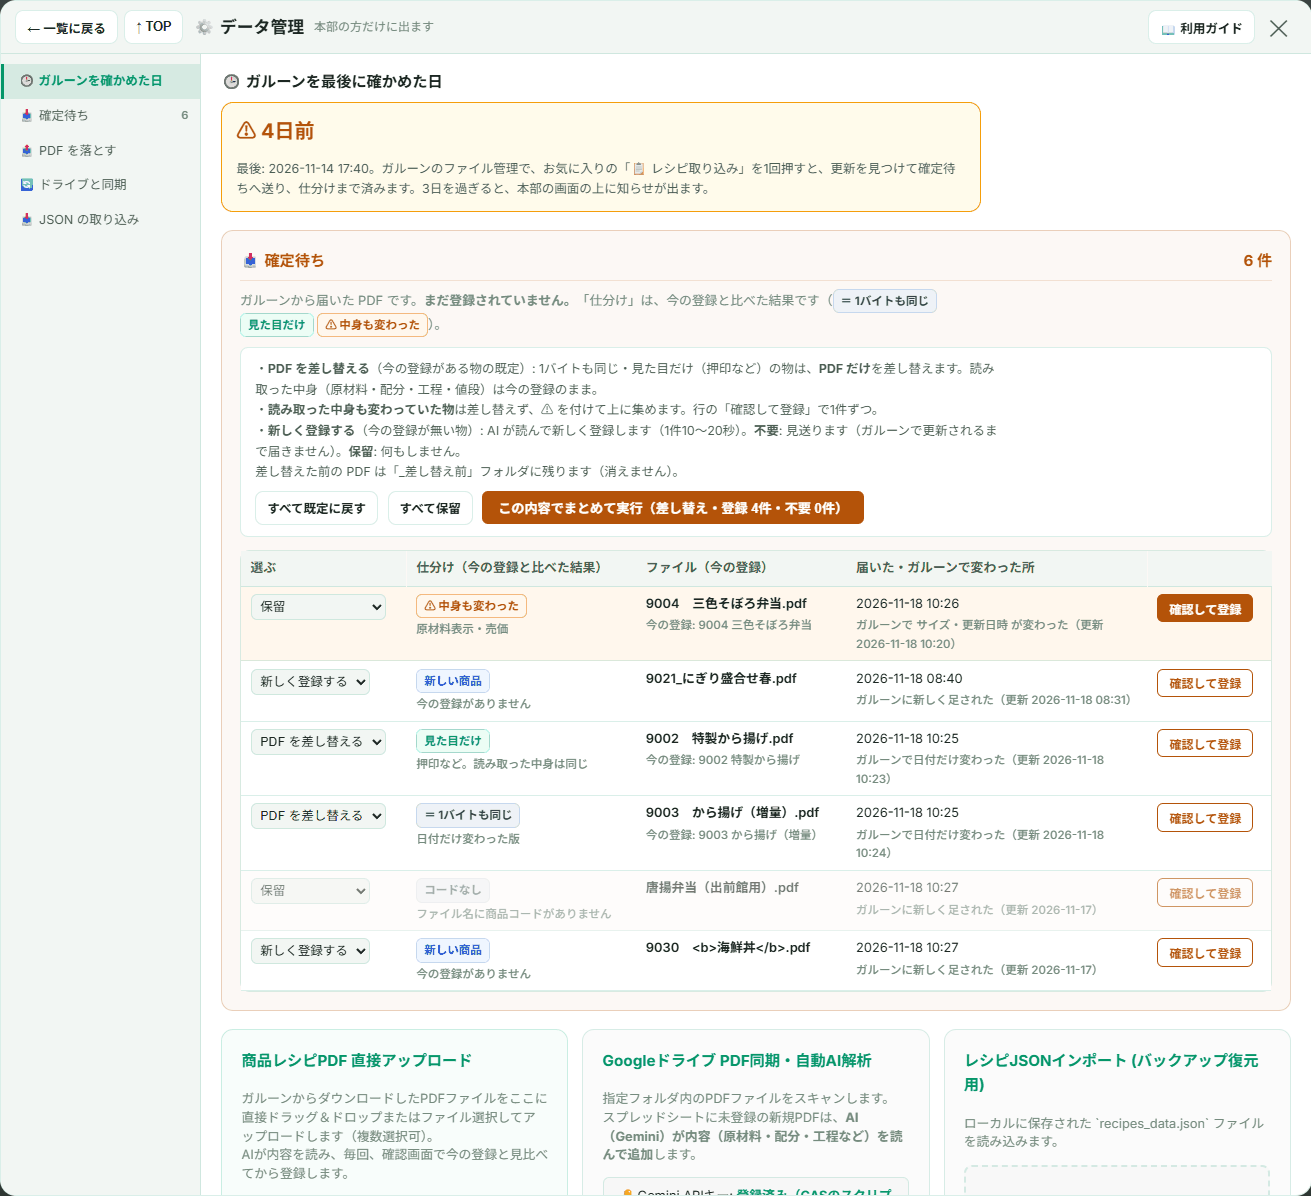
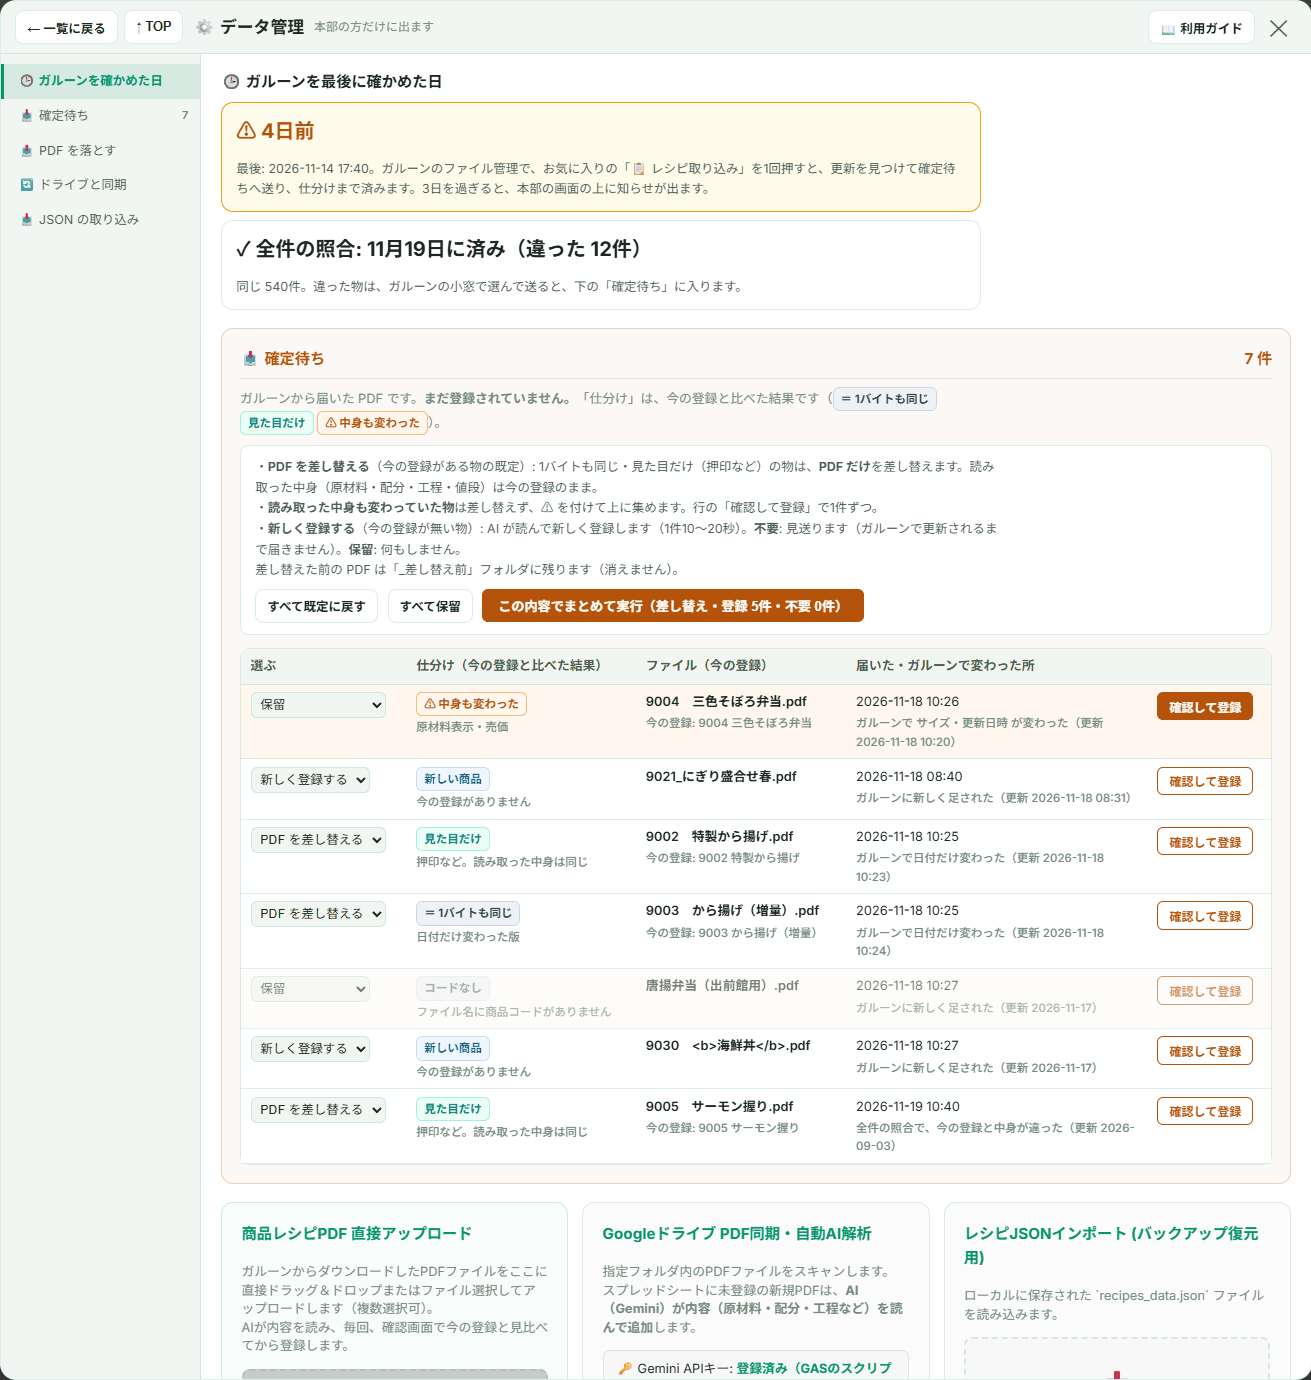
feat: ガルーンの全件の照合（1回だけ・指紋で比べて違う物だけ確定待ちへ）・データ管理に照合の状態（build recipe-web-2026-11-19a・窓口 recipe-api-2026-11-19a が要る）
押す前の公開中: recipe-web-2026-11-18a（記録 48048be）。切り戻しは rollback の台本で、この版へ。

Copy-Desk: r1119a

diff --git a/index.html b/index.html
@@ -1177,6 +1177,8 @@
   .gchk.is-stale{border-color:#f59e0b;background:#fffbeb;}
   .gchk .gchk-day{font-size:1.25rem;font-weight:800;color:var(--text-primary);}
   .gchk.is-stale .gchk-day{color:#b45309;}
+  .gchk.gchk-full{margin-top:8px;}
+  .gchk[hidden]{display:none;}
   .gchk .gchk-t{font-size:12.5px;color:var(--text-secondary);line-height:1.6;}
   .gchk a,.gnote-bar a{color:#1669c9;font-weight:700;text-decoration:underline;}
   #garoon-notice{display:flex;align-items:center;gap:10px;flex-wrap:wrap;margin:0 0 .5rem;padding:.45rem .9rem;border:1px solid #f59e0b;background:#fffbeb;color:#92400e;border-radius:10px;font-size:.8rem;font-weight:600;}
@@ -1295,7 +1297,7 @@
         <!-- 名前の下に小さく版の字（2行まで折り返す）＝戻る・TOP を足しても、上の帯を1行のまま（右が空いたまま2行にしない） -->
         <div id="main-title-col" style="display: flex; flex-direction: column; line-height: 1.25; min-width: 0;">
           <h1 style="font-family: var(--font-display); font-weight: 800; font-size: 1.15rem; background: linear-gradient(135deg, var(--accent) 0%, var(--accent-gold) 100%); -webkit-background-clip: text; -webkit-text-fill-color: transparent; letter-spacing: 0.02em; margin-bottom: 0; white-space: nowrap;">レシピの本棚</h1>
-          <span class="main-ver" style="font-size: 0.72rem; color: var(--text-secondary); font-weight: 500; white-space: normal; max-width: 19rem;">関東事業部 <span style="font-size: 0.62rem; color: var(--text-muted); white-space: normal; text-transform: none;" title="画面と窓口（GAS）の版。窓口の版は、ログインしたあとの返事で分かります">build recipe-web-2026-11-18a ／ 窓口 <span id="api-build" style="font-size: inherit; color: inherit; font-weight: inherit; letter-spacing: inherit; text-transform: none; margin: 0;">（確認中）</span></span></span>
+          <span class="main-ver" style="font-size: 0.72rem; color: var(--text-secondary); font-weight: 500; white-space: normal; max-width: 19rem;">関東事業部 <span style="font-size: 0.62rem; color: var(--text-muted); white-space: normal; text-transform: none;" title="画面と窓口（GAS）の版。窓口の版は、ログインしたあとの返事で分かります">build recipe-web-2026-11-19a ／ 窓口 <span id="api-build" style="font-size: inherit; color: inherit; font-weight: inherit; letter-spacing: inherit; text-transform: none; margin: 0;">（確認中）</span></span></span>
         </div>
       </div>
       <div class="header-actions" style="display: flex; align-items: center; gap: 0.5rem; flex-wrap: wrap;">
@@ -1401,6 +1403,7 @@
         <section class="rb-sec" id="garoon-check">
           <div class="rb-h">🕒 ガルーンを最後に確かめた日</div>
           <div class="gchk" id="garoon-check-box"><span class="gchk-t">読み込んでいます…</span></div>
+          <div class="gchk gchk-full" id="garoon-full-box" hidden></div>
         </section>
 
         <!-- Garoon から届いた確定待ち（届いただけで、まだ登録されていないPDF） -->
@@ -1930,7 +1933,7 @@
         RecipeIngredients: '\u30fb\u30b5\u30fc\u30e2\u30f3 [30g]\n\u30fb\u30b7\u30e3\u30ea [18g]', RawMaterials: '\u3055\u3051\u3001\u7c73\u3001\u9162\uff08\u3055\u3051\u3092\u542b\u3080\uff09',
         Instructions: '1. \u30b7\u30e3\u30ea\u3092\u63e1\u308b\n2. \u30cd\u30bf\u3092\u306e\u305b\u308b', FileId: '' }
     ];
-    var MOCK_PREF = { email: 'local-test@jaz-acoop.co.jp', uncheckedCodes: [], sortOption: 'code' };
+    var MOCK_PREF = { email: 'local-test@example.invalid', uncheckedCodes: [], sortOption: 'code' };
     // 2026-11-18a: 仕分け（今の登録と比べた結果）つきの作り物の確定待ち（台帳の記録の形は窓口の listPending と同じ）
     var MOCK_PENDING = [
       { id: 'mock-p1', name: '9021_にぎり盛合せ春.pdf', createdAt: '2026-11-18 08:40', createdMs: 1, garoon: { reason: '新しい', stamp: '2026-11-18 08:31', folder: '寿司', check: 'new', checkNote: '', checkCode: '' } },
@@ -1938,9 +1941,11 @@
       { id: 'mock-p3', name: '9003　から揚げ（増量）.pdf', createdAt: '2026-11-18 10:25', createdMs: 3, garoon: { reason: '更新日時', stamp: '2026-11-18 10:24', folder: '惣菜', check: 'same', checkNote: '', checkCode: '9003' } },
       { id: 'mock-p6', name: '9004　三色そぼろ弁当.pdf', createdAt: '2026-11-18 10:26', createdMs: 6, garoon: { reason: 'サイズ・更新日時', stamp: '2026-11-18 10:20', folder: '米飯', check: 'content', checkNote: '原材料表示・売価', checkCode: '9004' } },
       { id: 'mock-p4', name: '唐揚弁当（出前館用）.pdf', createdAt: '2026-11-18 10:27', createdMs: 4, garoon: { reason: '新しい', stamp: '2026-11-17', folder: '米飯', check: 'nocode', checkNote: '', checkCode: '' } },
-      { id: 'mock-p5', name: '9030　<b>海鮮丼</b>.pdf', createdAt: '2026-11-18 10:27', createdMs: 5, garoon: { reason: '新しい', stamp: '2026-11-17', folder: '寿司', check: 'new', checkNote: '', checkCode: '' } }
+      { id: 'mock-p5', name: '9030　<b>海鮮丼</b>.pdf', createdAt: '2026-11-18 10:27', createdMs: 5, garoon: { reason: '新しい', stamp: '2026-11-17', folder: '寿司', check: 'new', checkNote: '', checkCode: '' } },
+      { id: 'mock-p7', name: '9005　サーモン握り.pdf', createdAt: '2026-11-19 10:40', createdMs: 7, garoon: { reason: '全件の照合', stamp: '2026-09-03', folder: '寿司', check: 'visual', checkNote: '', checkCode: '9005' } }
     ];
-    var MOCK_GAROON = { lastChecked: '2026-11-14 17:40:00', days: 4, staleDays: 3, stale: true, openUrl: '' };
+    var MOCK_GAROON = { lastChecked: '2026-11-14 17:40:00', days: 4, staleDays: 3, stale: true, openUrl: '',
+                        full: { state: 'done', startedAt: '2026-11-19 10:31:02', finishedAt: '2026-11-19 10:36:40', total: 650, checked: 650, diff: 12, same: 540 } };
 
     /** 作り物の1ページの PDF（英字だけ・表の線・赤い丸の押印）。押印の位置（左下の原点からの pt）だけを変えて、見た目だけの違いを作る */
     function mockPdf_(stampX, stampY, extra) {
@@ -2207,7 +2212,7 @@
 
     if (LOCAL_MOCK) {
       // 手元での画面確認用。架空データで本体を表示する（本番では通らない経路）
-      userEmail = 'local-test@jaz-acoop.co.jp';
+      userEmail = 'local-test@example.invalid';
       isAdmin = true;
       document.getElementById('user-email').textContent = userEmail + '（ローカル検証）';
       document.getElementById('settings-open-btn').style.display = 'flex';
@@ -2325,6 +2330,31 @@
      * ⚙ データ管理の「🕒 ガルーンを最後に確かめた日」と、決めた日数を過ぎたときの本部の画面の上の知らせに出す。
      * 中身は字として入れる（textContent）。ガルーンを開く場所は窓口から来た https の cybozu.com だけを使う。
      */
+    /**
+     * 2026-11-19a: 全件の照合（まだ／途中／済み）。窓口の getSavedSettings が本部の人にだけ数を返す（fid・ファイル名は来ない）。
+     * 照合はガルーンのボタンの小窓のいちばん下「🔍 全部を照らし合わせる（1回だけ）」で行う（この画面からは始めない）。
+     */
+    function renderGaroonFull_(f) {
+      var box = document.getElementById('garoon-full-box');
+      if (!box) return;
+      box.textContent = '';
+      if (!f || typeof f !== 'object') { box.hidden = true; return; }
+      box.hidden = false;
+      var num = function (v) { v = Number(v); return isFinite(v) && v >= 0 ? Math.floor(v) : 0; };
+      var day = function (s) { var m = String(s || '').match(/^\d{4}-(\d{2})-(\d{2})/); return m ? (+m[1]) + '月' + (+m[2]) + '日' : ''; };
+      var state = f.state === 'done' || f.state === 'running' ? f.state : 'none';
+      box.classList.toggle('is-stale', state !== 'done');
+      var d = document.createElement('span'); d.className = 'gchk-day';
+      d.textContent = state === 'done' ? '✓ 全件の照合: ' + day(f.finishedAt) + 'に済み（違った ' + num(f.diff) + '件）'
+        : state === 'running' ? '… 全件の照合: 途中（' + num(f.checked) + ' / ' + num(f.total) + '件）'
+        : '全件の照合: まだ';
+      var t = document.createElement('span'); t.className = 'gchk-t';
+      t.textContent = (state === 'done' ? '同じ ' + num(f.same) + '件。違った物は、ガルーンの小窓で選んで送ると、下の「確定待ち」に入ります。'
+        : state === 'running' ? 'ガルーンで「📋 レシピ取り込み」を押し、小窓のいちばん下の「続きから照らし合わせる」で続きができます。'
+        : 'ガルーンで「📋 レシピ取り込み」を押し、小窓のいちばん下の「🔍 全部を照らし合わせる（1回だけ）」を押すと、全部の PDF を今の登録と1バイトずつ比べます（数を見てから送れます）。');
+      box.appendChild(d); box.appendChild(t);
+    }
+
     function renderGaroonStatus_(g) {
       var box = document.getElementById('garoon-check-box'), notice = document.getElementById('garoon-notice');
       if (!g || typeof g !== 'object') {
@@ -2346,6 +2376,7 @@
         box.appendChild(d); box.appendChild(t);
         if (openUrl) { var a = document.createElement('a'); a.href = openUrl; a.target = '_blank'; a.rel = 'noopener noreferrer'; a.textContent = 'ガルーンを開く ↗'; box.appendChild(a); }
       }
+      renderGaroonFull_(g.full);
       if (notice) {
         var hidden = false;
         try { hidden = localStorage.getItem('recipe_garoon_notice_hidden') === todayKey_(); } catch (e) {}
@@ -2396,10 +2427,10 @@
        ・「← ひとつ前に戻る」「↑ はじめへ」を上の帯にいつも出す。移るときは滑らせて、着いた見出しを光らせる
        ========================================================= */
     var GUIDE_NAME = 'レシピの本棚利用ガイド';
-    var GUIDE_ASSET_VER = 'recipe-web-2026-11-18a';   // guide-img/figs.js を読み直す印（画面の版と同じ）
+    var GUIDE_ASSET_VER = 'recipe-web-2026-11-19a';   // guide-img/figs.js を読み直す印（画面の版と同じ）
     var GUIDE_READERS = { store: '店舗向け', hq: '本部向け', admin: '本部・管理者向け' };
     // 図解（写真でない図）。流れの箱の絵は、並びの順に1つずつ
-    var GUIDE_FLOWS = { 'flow-register': ['📤', '🤖', '🔍', '📁'], 'flow-garoon': ['📋', '🔎', '🔐', '🗂', '✅'] };
+    var GUIDE_FLOWS = { 'flow-register': ['📤', '🤖', '🔍', '📁'], 'flow-garoon': ['📋', '🔎', '🔐', '🗂', '✅'], 'flow-full': ['🔍', '🔐', '🔢', '☑', '🗂'] };
     var _gSecs = [];        // 目次（本文の見出しから組み立てる）
     var _gForce = null;     // 目次で押した見出し（利用者が自分で送るまで優先）
     var _gAnim = null;
@@ -3822,7 +3853,7 @@
           var labels = Object.keys(keys).map(function (k) { return keys[k]; });
           rec.appendChild(el_('small', '', '変わった項目: ' + labels.join('・')));
         }
-        if (it && it.garoon && it.garoon.reason) rec.appendChild(el_('small', '', 'ガルーンで変わった所: ' + it.garoon.reason + (it.garoon.stamp ? '（更新 ' + it.garoon.stamp + '）' : '')));
+        if (it && it.garoon && it.garoon.reason) rec.appendChild(el_('small', '', (it.garoon.reason === '全件の照合' ? '全件の照合で、今の登録と中身が違った' : 'ガルーンで変わった所: ' + it.garoon.reason) + (it.garoon.stamp ? '（更新 ' + it.garoon.stamp + '）' : '')));
       }
       box.appendChild(rec);
     }
@@ -4201,7 +4232,7 @@
         document.getElementById('similar-progress').textContent = progressText || '';
         document.getElementById('similar-filename').textContent = item.fileName || '-';
         var g = item.garoon || null, gEl = document.getElementById('similar-garoon');
-        gEl.textContent = g && g.reason ? '（ガルーン: ' + g.reason + (g.stamp ? '・更新 ' + g.stamp : '') + '）' : '';
+        gEl.textContent = g && g.reason ? '（' + (g.reason === '全件の照合' ? '全件の照合で今の登録と違った' : 'ガルーン: ' + g.reason) + (g.stamp ? '・更新 ' + g.stamp : '') + '）' : '';
         document.getElementById('similar-notes').textContent = (item.notes || []).join(' ／ ');
         document.getElementById('similar-code').value = p.code || '';
         document.getElementById('similar-name').value = p.name || '';
@@ -4425,7 +4456,7 @@
       var kind = Object.prototype.hasOwnProperty.call(PENDING_KIND, g.check) ? g.check : (existing ? 'diff' : (code ? 'new' : 'nocode'));
       if (kind === 'new' && existing) kind = 'diff';
       var why = String(g.reason || '');
-      var whyText = !why ? '' : why === '新しい' ? 'ガルーンに新しく足された' : why === '更新日時' ? 'ガルーンで日付だけ変わった' : 'ガルーンで ' + why + ' が変わった';
+      var whyText = !why ? '' : why === '新しい' ? 'ガルーンに新しく足された' : why === '更新日時' ? 'ガルーンで日付だけ変わった' : why === '全件の照合' ? '全件の照合で、今の登録と中身が違った' : 'ガルーンで ' + why + ' が変わった';
       return {
         code: code, existing: existing, kind: kind,
         badge: PENDING_KIND[kind], note: kind === 'content' ? String(g.checkNote || '') : PENDING_KIND[kind][2],

diff --git a/guide-img/figs.js b/guide-img/figs.js
@@ -4,13 +4,13 @@
 'use strict';
 window.GUIDE_SHOTS = Object.freeze({
   "login": { src: "guide-img/login.png?v=6dd92856", w: 488, h: 442, alt: "「ログインの期限が切れました」と出たログインの画面の写真（作り物）", marks: [[12.7,39.5,14.5,41.5,71,4.3],[8,48.9,9.9,51,80.3,15.7],[28.9,67.3,30.8,69.4,38.5,11.3]] },
-  "map": { src: "guide-img/map.png?v=35a68f25", w: 1366, h: 500, alt: "店舗のアカウントで開いた一覧の画面の写真（作り物のレシピ）", marks: [[2.1,25.4,2.7,27.2,75.5,7.9],[78.2,25.6,78.9,27.4,18.4,7.6],[66,37,66.7,38.8,16.1,7.6],[83.1,37.4,83.7,39.2,14.3,6.8],[1,49.1,1.6,50.9,23.4,47.1],[3.4,55.7,4,57.5,5.1,6.4],[69.7,10.8,70.3,12.6,7.9,6.8],[77.9,11.2,78.6,13,18.8,6],[2,10.4,2.7,12.2,14.3,7.6]] },
-  "search": { src: "guide-img/search.png?v=3e386515", w: 1366, h: 500, alt: "探す欄に「から」と打って絞り込んだ所の写真（作り物のレシピ）", marks: [[2.1,25.4,2.7,27.2,75.5,7.9],[1,38.2,1.6,40,7.7,5.2],[78.2,25.6,78.9,27.4,18.4,7.6],[1,49.1,1.6,50.9,23.4,47.1]] },
-  "pref": { src: "guide-img/pref.png?v=c5ceffa1", w: 1366, h: 900, alt: "チェックを外して、そのレシピが下へ移った所の写真（作り物のレシピ）", marks: [[3.4,30.9,4,31.9,5.4,3.6],[74.4,55.1,75,56.1,23.4,26.2],[66,82,66.6,83,31.2,7.5],[66,20.6,66.7,21.6,16.1,4.2]] },
+  "map": { src: "guide-img/map.png?v=20573270", w: 1366, h: 500, alt: "店舗のアカウントで開いた一覧の画面の写真（作り物のレシピ）", marks: [[2.1,25.4,2.7,27.2,75.5,7.9],[78.2,25.6,78.9,27.4,18.4,7.6],[66,37,66.7,38.8,16.1,7.6],[83.1,37.4,83.7,39.2,14.3,6.8],[1,49.1,1.6,50.9,23.4,47.1],[3.4,55.7,4,57.5,5.1,6.4],[69.7,10.8,70.3,12.6,7.9,6.8],[77.9,11.2,78.6,13,18.8,6],[2,10.4,2.7,12.2,14.3,7.6]] },
+  "search": { src: "guide-img/search.png?v=4bb3b888", w: 1366, h: 500, alt: "探す欄に「から」と打って絞り込んだ所の写真（作り物のレシピ）", marks: [[2.1,25.4,2.7,27.2,75.5,7.9],[1,38.2,1.6,40,7.7,5.2],[78.2,25.6,78.9,27.4,18.4,7.6],[1,49.1,1.6,50.9,23.4,47.1]] },
+  "pref": { src: "guide-img/pref.png?v=e0b4e3f6", w: 1366, h: 900, alt: "チェックを外して、そのレシピが下へ移った所の写真（作り物のレシピ）", marks: [[3.4,30.9,4,31.9,5.4,3.6],[74.4,55.1,75,56.1,23.4,26.2],[66,82,66.6,83,31.2,7.5],[66,20.6,66.7,21.6,16.1,4.2]] },
   "detail": { src: "guide-img/detail.png?v=c9021d1d", w: 1200, h: 810, alt: "レシピを開いて原本PDFを出した所の写真（作り物のレシピ・作り物のPDF）", marks: [[0,8.5,0,9.6,100,7.1],[21.5,92.4,22.3,93.5,28.1,5.1],[51.1,92.4,51.8,93.5,12.7,4.9],[65.1,92.4,65.9,93.5,11.8,5.1],[94,1.3,94.8,2.4,3.3,4.9]] },
-  "notice": { src: "guide-img/notice.png?v=bb057cc8", w: 1366, h: 183, alt: "本部の画面の上に出る「ガルーンを確かめていません」の知らせの写真（作り物）", marks: [[2.1,69.8,2.7,74.8,49.4,13.4],[81.2,68,81.9,73,8.9,16.9],[90.3,68,91,73,6.3,16.9]] },
-  "manage": { src: "guide-img/manage.png?v=f3341567", w: 1311, h: 1196, alt: "本部のアカウントで開いたデータ管理の画面の写真（作り物）", marks: [[0.3,0,1,0.7,13.1,3.2],[0,3.6,0,4.3,15.5,95.7],[16,4.9,16.7,5.7,81.9,12.2],[17.5,19.9,18.1,20.6,79,3],[17.6,98.2,18.3,99.8,23.7,0.2],[86.7,0,87.4,0.7,8.5,3.2]] },
-  "pending": { src: "guide-img/pending.png?v=cd0b733e", w: 1081, h: 793, alt: "データ管理の「確定待ち」の表の写真（作り物のファイル名）", marks: [[16.7,53.8,17.5,54.9,21.6,8.1],[2.3,54.7,3.1,55.8,11.4,3.8],[1.4,44.3,2.2,45.5,95.7,9.9],[23.7,32.3,24.5,33.4,35.7,4.7],[86.2,45.2,87,46.4,9.3,4.1]] },
+  "notice": { src: "guide-img/notice.png?v=43d0bd35", w: 1366, h: 183, alt: "本部の画面の上に出る「ガルーンを確かめていません」の知らせの写真（作り物）", marks: [[2.1,69.8,2.7,74.8,49.4,13.4],[81.2,68,81.9,73,8.9,16.9],[90.3,68,91,73,6.3,16.9]] },
+  "manage": { src: "guide-img/manage.png?v=3fec36cd", w: 1311, h: 1380, alt: "本部のアカウントで開いたデータ管理の画面の写真（作り物）", marks: [[0.3,0,1,0.6,13.1,2.8],[0,3.1,0,3.8,15.5,96.2],[16,4.3,16.7,4.9,81.9,17.7],[17.5,24.3,18.1,25,79,2.6],[17.6,98.4,18.3,99,23.7,1],[86.7,0,87.4,0.6,8.5,2.8]] },
+  "pending": { src: "guide-img/pending.png?v=8b37ea36", w: 1081, h: 867, alt: "データ管理の「確定待ち」の表の写真（作り物のファイル名）", marks: [[16.7,49.2,17.5,50.2,21.6,7.4],[2.3,50,3.1,51,11.4,3.5],[1.4,40.6,2.2,41.6,95.7,9.1],[23.7,29.5,24.5,30.6,35.7,4.3],[86.2,41.4,87,42.4,9.3,3.8]] },
   "kinds": { src: "guide-img/kinds.png?v=3d93509d", w: 1085, h: 236, alt: "確認画面の「今の登録との違い」（3つの札）の写真（作り物）", marks: [[0,12.4,0.6,16.2,32.6,60.8],[32.9,12.4,33.7,16.2,32.6,60.8],[66.1,12.4,66.9,16.2,32.6,60.8],[0,75,0.6,78.8,72.9,18.6]] },
   "confirm": { src: "guide-img/confirm.png?v=97e8790e", w: 1311, h: 1196, alt: "登録の確認画面の写真（作り物のレシピ）", marks: [[0.3,0,1,0.6,11,3.2],[16,4.8,16.7,5.6,81.9,18.7],[16,24.7,16.7,25.5,81.9,14.1],[16,40,16.7,40.8,81.9,20.1],[0.7,94.4,1.4,95.1,15.6,3.8],[83.9,94.3,84.6,95.1,14.1,4]] },
   "redbox": { src: "guide-img/redbox.png?v=5eeab1ea", w: 1081, h: 855, alt: "確認画面の「ページの画像」で、押印の位置が違う所を赤い枠で囲んだ写真（作り物のPDF）", marks: [[26.6,3.2,27.5,4.3,11.9,4.4],[35.1,24.8,36,25.9,5.8,11.3],[64.6,4,65.4,5.1,19.7,2.9],[39.7,8.9,40.5,10,8.5,3.1]] },
